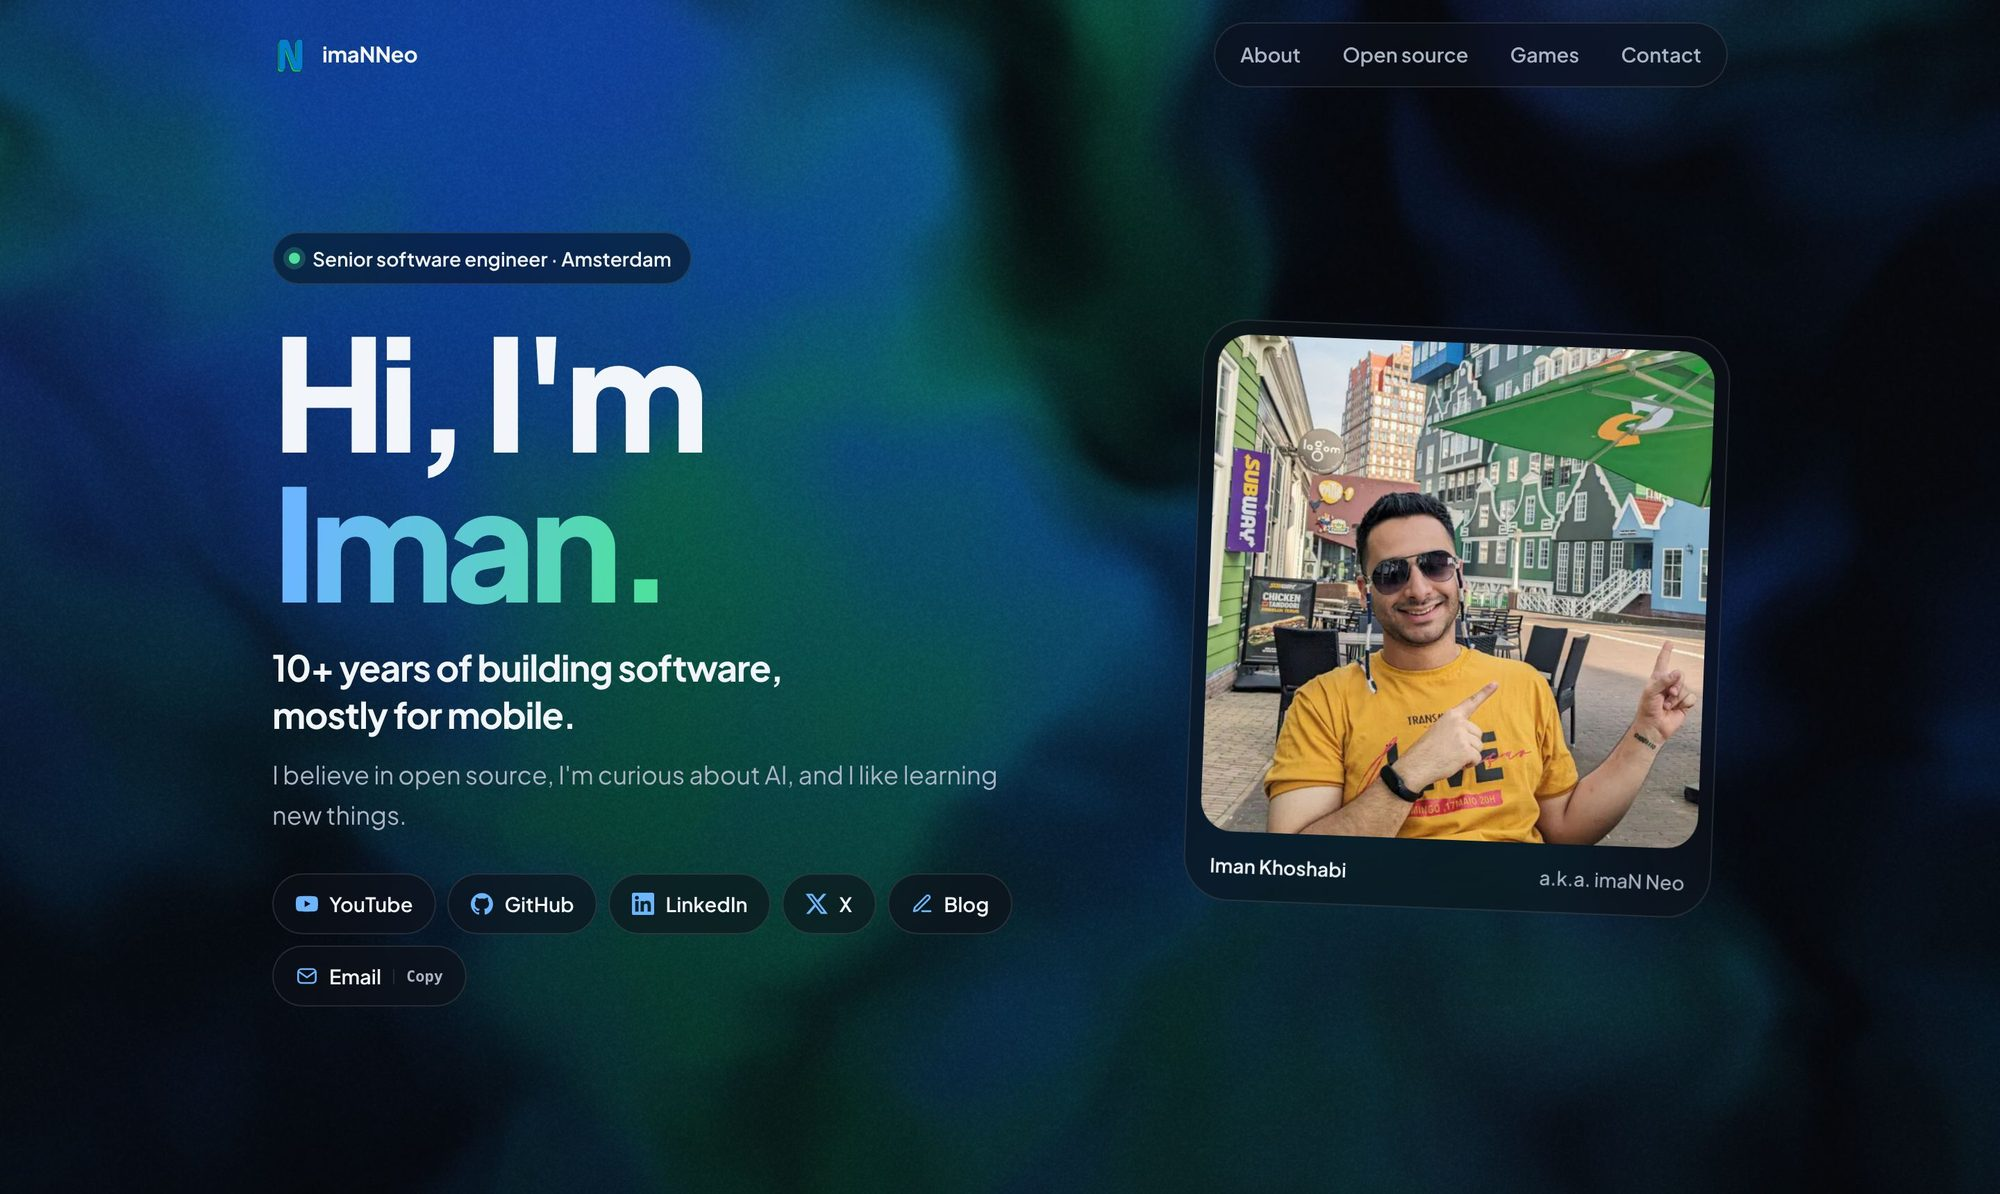
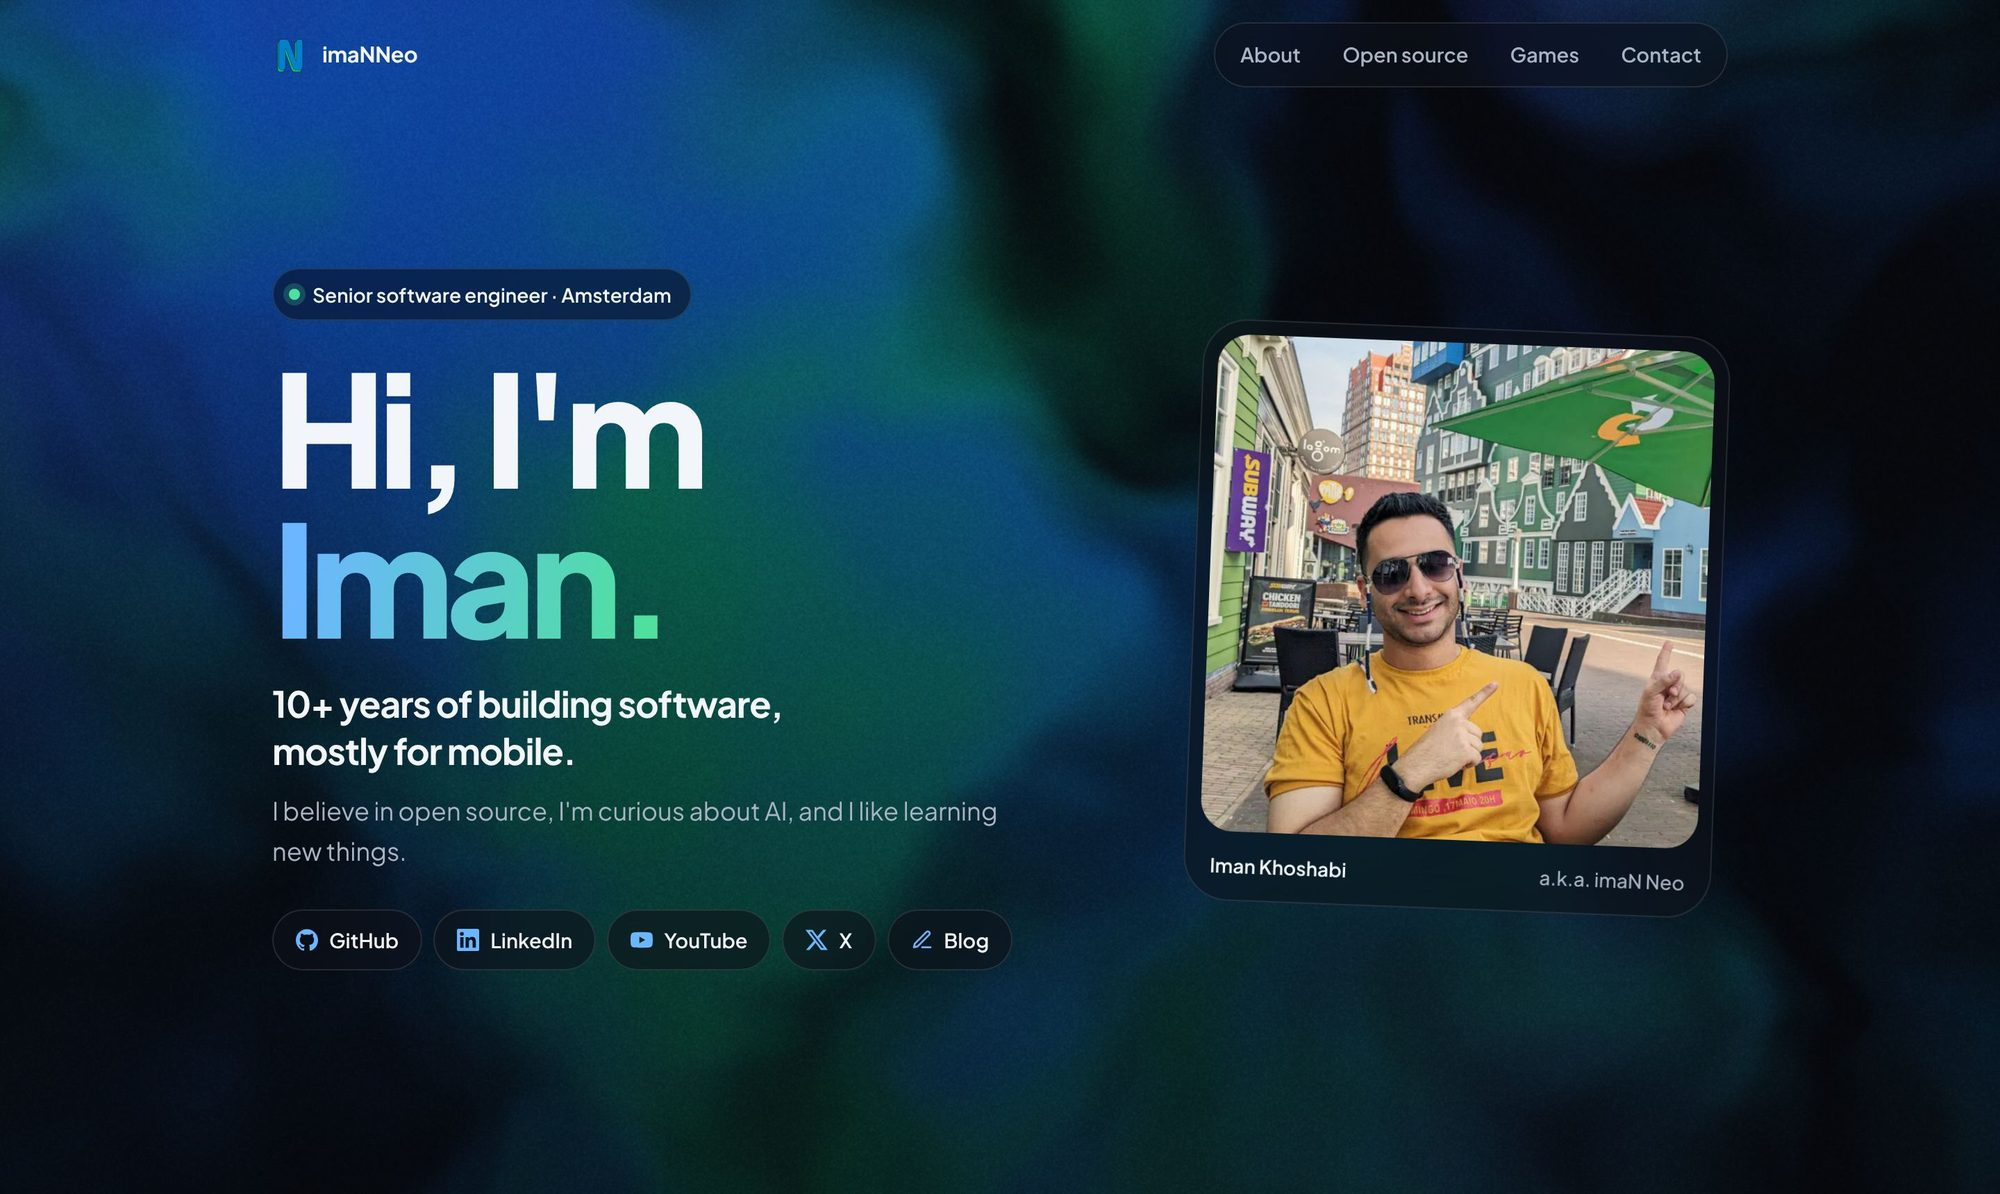
Keep the email address out of the page, and reorder the buttons
The email address is no longer written into the page, so robots that
collect addresses for spam do not find it. hugo.yaml holds it in two
parts, the build writes it into the page backwards and base64-encoded,
and the button under "Say hi" puts it together in the browser: the first
press shows it as a mail link, later presses copy it. Without JavaScript
a short note shows instead.

The Email button is gone from the first screen, and the buttons are now
GitHub, LinkedIn, YouTube, X, Blog. The README pictures are taken again.

Claude-Session: https://claude.ai/code/session_013qFz5hfwQjfsRoPXc3qiDH

diff --git a/assets/js/main.js b/assets/js/main.js
@@ -1,6 +1,6 @@
 /*
- * imanneo.dev: the copy buttons, a little film grain, and the moving background.
- * The page is complete without this file. It only adds the motion and the copying.
+ * imanneo.dev: the email button, a little film grain, and the moving background.
+ * Without this file the page still reads the same. It adds the motion and the button that shows the email address.
  */
 (function () {
   "use strict";
@@ -8,38 +8,47 @@
   var root = document.documentElement;
   var $ = function (id) { return document.getElementById(id); };
 
-  /* ---------- Copy buttons ----------
-   * A button with data-copy copies that text. Its label (the child marked data-t) says "Copied" for a moment,
-   * and the line with id "said" tells a screen reader the same (the text in data-said, when there is one).
-   * If the clipboard is closed, the element named by data-from is brought into view and selected instead.
+  /* ---------- The email address ----------
+   * The page does not contain the address as text, so that robots that collect addresses for spam do not
+   * find it. It sits in data-mail on the line with id "mail", written backwards and base64-encoded.
+   * The button on that line is hidden until this script runs. Its first press shows the address, as a link
+   * that opens the mail app. Every press after that copies it: the label says "Copied" for a moment, and the
+   * line with id "said" tells a screen reader what happened. If the clipboard is closed, the address is
+   * selected instead, ready to copy by hand.
    */
-  var said = $("said");
-  function copy(btn) {
-    var text = btn.getAttribute("data-copy"), from = btn.getAttribute("data-from"), node = from ? $(from) : null;
-    var label = btn.querySelector("[data-t]") || btn;
-    if (!btn.hasAttribute("data-was")) btn.setAttribute("data-was", label.textContent);
-    function show(msg, tell) {
-      label.textContent = msg; btn.classList.add("did");
-      if (said) said.textContent = tell || msg;
-      clearTimeout(btn._t);
-      btn._t = setTimeout(function () {
-        label.textContent = btn.getAttribute("data-was"); btn.classList.remove("did");
-        if (said) said.textContent = "";
-      }, 1800);
-    }
-    function select() {
-      if (node && window.getSelection && document.createRange) {
-        var r = document.createRange(); r.selectNodeContents(node);
+  var said = $("said"), box = $("mail"), btn = $("mail-b");
+  if (box && btn) {
+    var label = btn.querySelector("[data-t]") || btn, link = null, timer = 0;
+    var tell = function (msg) { if (said) said.textContent = msg; };
+    var flash = function (msg, told) {
+      label.textContent = msg; btn.classList.add("did"); tell(told || msg);
+      clearTimeout(timer);
+      timer = setTimeout(function () { label.textContent = "Copy"; btn.classList.remove("did"); tell(""); }, 1800);
+    };
+    var select = function () {
+      if (window.getSelection && document.createRange) {
+        var r = document.createRange(); r.selectNodeContents(link);
         var s = window.getSelection(); s.removeAllRanges(); s.addRange(r);
-        if (node.scrollIntoView) node.scrollIntoView({ block: "center" });
-        show("Selected", "The address is selected, ready to copy.");
-      } else show("Copy it by hand");
-    }
-    try { navigator.clipboard.writeText(text).then(function () { show("Copied", btn.getAttribute("data-said")); }, select); } catch (e) { select(); }
+        flash("Selected", "The address is selected, ready to copy.");
+      } else flash("Copy it by hand");
+    };
+    btn.hidden = false;
+    btn.addEventListener("click", function () {
+      var address = "";
+      try { address = atob(box.getAttribute("data-mail")).split("").reverse().join(""); } catch (e) {}
+      if (!address) return;
+      if (!link) {
+        link = document.createElement("a");
+        link.className = "mail-a"; link.id = "mail-a"; link.href = "mailto:" + address; link.textContent = address;
+        box.insertBefore(link, btn);
+        label.textContent = "Copy";
+        Array.prototype.forEach.call(btn.querySelectorAll("[data-on]"), function (n) { n.hidden = n.getAttribute("data-on") !== "shown"; });
+        tell("The email address is shown: " + address);
+        return;
+      }
+      try { navigator.clipboard.writeText(address).then(function () { flash("Copied", "The email address is copied."); }, select); } catch (e) { select(); }
+    });
   }
-  Array.prototype.forEach.call(document.querySelectorAll("[data-copy]"), function (b) {
-    b.addEventListener("click", function () { copy(b); });
-  });
 
   /* ---------- Grain ----------
    * A little film grain over the colour, drawn once.

diff --git a/layouts/index.html b/layouts/index.html
@@ -22,7 +22,7 @@
       <p class="role">{{ $p.hero.line }}</p>
       <p class="bio">{{ $p.hero.text }}</p>
       <ul class="soc">
-        {{- partial "socials.html" (dict "mail" true) }}
+        {{- partial "socials.html" . }}
       </ul>
     </div>
     {{- with resources.Get $p.hero.photo }}
@@ -106,11 +106,19 @@
         <header><span class="sec-k">04</span><h2 id="h-contact">{{ $p.contact.title }}</h2></header>
         <div class="sec-b">
           <p class="lead">{{ $p.contact.lead }}</p>
-          {{- with $p.email }}
-          <p class="mail"><a class="mail-a" id="mail-a" href="mailto:{{ . }}">{{ . }}</a><button type="button" class="mail-b" data-copy="{{ . }}" data-from="mail-a" data-said="The email address is copied.">{{ partial "icon.html" "copy" }}<span data-t>Copy</span><span class="vh"> the email address</span></button></p>
+          {{- if and $p.emailName $p.emailHost }}
+          {{- /*
+            The email address is never written into the page, so that robots that collect addresses
+            for spam do not find it. It sits in data-mail, backwards and base64-encoded. The script
+            shows the button, and the button first shows the address and from then on copies it.
+            Without JavaScript the note inside noscript shows instead.
+          */}}
+          {{- $back := "" }}
+          {{- range split (printf "%s@%s" $p.emailName $p.emailHost) "" }}{{ $back = print . $back }}{{ end }}
+          <p class="mail" id="mail" data-mail="{{ $back | base64Encode }}"><button type="button" class="mail-b" id="mail-b" hidden><span class="mail-i" data-on="hidden">{{ partial "icon.html" "mail" }}</span><span class="mail-i" data-on="shown" hidden>{{ partial "icon.html" "copy" }}</span><span data-t>{{ $p.contact.show }}</span><span class="vh" data-on="shown" hidden> the email address</span></button><noscript><span class="mail-n">{{ $p.contact.noScript }}</span></noscript></p>
           {{- end }}
           <ul class="soc list">
-            {{- partial "socials.html" (dict "mail" false) }}
+            {{- partial "socials.html" . }}
           </ul>
         </div>
       </section>

diff --git a/assets/css/main.css b/assets/css/main.css
@@ -7,7 +7,6 @@
   --bg:#f6f8fb; --ink:#0b1220; --mut:#475467; --dim:#667085; --line:rgba(11,18,32,.1); --glass:rgba(255,255,255,.66); --solid:#fff;
   --acc:#0b6bcb; --acc-2:#0a8f5a; --au-a:#9ccbff; --au-b:#9aecc4;
   --sans:"Plus Jakarta Sans",system-ui,-apple-system,"Segoe UI",Roboto,Arial,sans-serif;
-  --mono:ui-monospace,SFMono-Regular,Menlo,Consolas,monospace;
   --gut:clamp(20px,5vw,56px);
   color-scheme:light;
 }
@@ -73,8 +72,6 @@ h1 span{background:linear-gradient(100deg,var(--acc) 10%,var(--acc-2) 90%);-webk
 .soc-a:hover{transform:translateY(-2px);border-color:var(--acc)}
 .soc-a:focus-visible{outline:2px solid var(--acc);outline-offset:3px}
 .soc-i{display:inline-flex;font-size:16px;color:var(--acc)}
-.soc-e{font:600 11px/1 var(--mono);color:var(--mut);padding-left:9px;border-left:1px solid var(--line)}
-.soc-mail.did .soc-e{color:var(--acc-2)}
 
 .photo{margin:0;justify-self:center;width:min(100%,380px);padding:10px 10px 0;border-radius:32px;transform:rotate(2.2deg);box-shadow:0 30px 70px -30px rgba(10,30,70,.45)}
 .photo img{width:100%;height:auto;aspect-ratio:1;object-fit:cover;border-radius:23px}
@@ -135,6 +132,8 @@ h3{margin:0 0 10px;font-size:13px;font-weight:700;letter-spacing:.02em;color:var
 .mail-b{all:unset;box-sizing:border-box;cursor:pointer;display:inline-flex;align-items:center;gap:7px;height:38px;padding:0 15px;border-radius:999px;background:var(--ink);color:var(--bg);font-size:14px;font-weight:700}
 .mail-b:hover,.mail-b.did{background:var(--acc)}
 .mail-b:focus-visible{outline:2px solid var(--acc);outline-offset:3px}
+.mail-i{display:inline-flex}
+.mail-n{color:var(--mut);font-size:15px}
 .list{display:flex;flex-wrap:wrap;gap:8px}
 .list .soc-a{background:var(--solid);-webkit-backdrop-filter:none;backdrop-filter:none;height:40px}
 

diff --git a/layouts/partials/socials.html b/layouts/partials/socials.html
@@ -1,13 +1,7 @@
 {{- /*
-  The social links as round buttons. Pass (dict "mail" true) to add the Email button,
-  which copies the address, because a mail link does nothing on a device without a mail app.
-  A screen reader hears the whole job of that button: "Email: copy the address …".
+  The social links as round buttons, in the order of the list in hugo.yaml.
+  The email address is not one of them: it only shows under "Say hi", after a click.
 */ -}}
 {{- range site.Params.socials }}
 <li><a class="soc-a" href="{{ .url }}" target="_blank" rel="noopener"><span class="soc-i">{{ partial "icon.html" .icon }}</span><span class="soc-l">{{ .label }}</span></a></li>
-{{- end }}
-{{- if .mail }}
-{{- with site.Params.email }}
-<li><button type="button" class="soc-a soc-mail" data-copy="{{ . }}" data-from="mail-a" data-said="The email address is copied."><span class="soc-i">{{ partial "icon.html" "mail" }}</span><span class="soc-l">Email</span><span class="vh">: copy the address {{ . }}</span><span class="soc-e" data-t aria-hidden="true">Copy</span></button></li>
-{{- end }}
 {{- end }}

diff --git a/README.md b/README.md
@@ -19,13 +19,17 @@ Every text, link and list on the page lives in [`hugo.yaml`](hugo.yaml). Change 
 | Pictures | `static/images/` (the cover of a game is `static/images/games/<id>.webp`) |
 | The page and the page for wrong addresses | `layouts/` |
 | Colours and layout | `assets/css/main.css` |
-| The moving background and the copy buttons | `assets/js/main.js` |
+| The moving background and the email button | `assets/js/main.js` |
 
 The colours follow the device: light on a light device, dark on a dark one.
 
 #### The fl_chart numbers
 
 The stars, downloads and releases of fl_chart are asked from GitHub and pub.dev every time the site builds, and the workflow builds once a day, so they stay current. When GitHub or pub.dev does not answer, the numbers saved in `data/fl_chart.yaml` are shown instead.
+
+#### The email address
+
+The page never contains the email address as text, so that robots that collect addresses for spam do not find it. `hugo.yaml` holds it in two parts (`emailName` and `emailHost`), the build writes it into the page in an encoded form, and the button under "Say hi" puts it together in the visitor's browser when they press it.
 
 #### Running it locally
 
